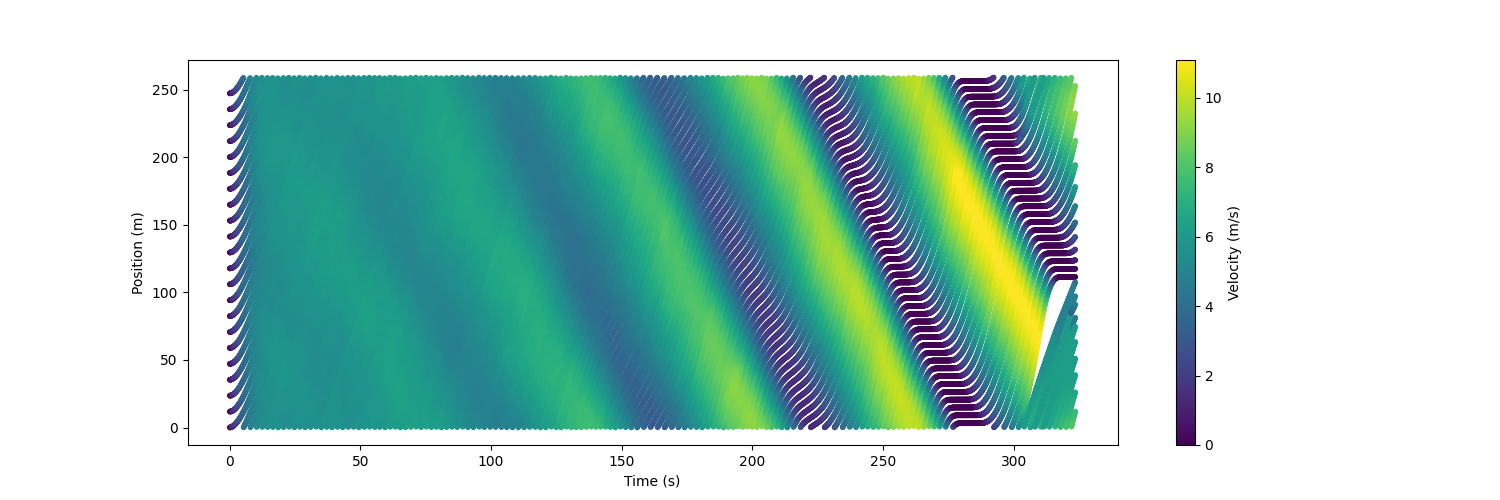
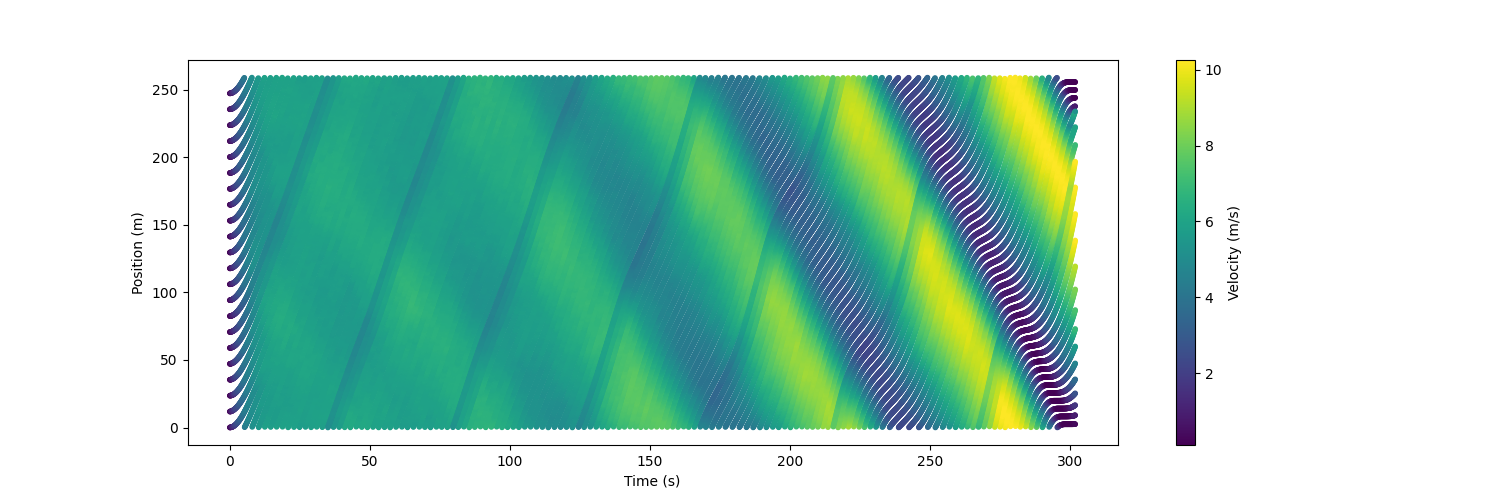
qmix training

diff --git a/main.py b/main.py
@@ -1,7 +1,7 @@
 import scripts.train_dqn, scripts.evaluate_idm, scripts.train_ppo, scripts.multiagent_train_ppo
 import argparse
 
-mixer = "vdn"
+mixer = "qmix"
 
 def main():
     parser = argparse.ArgumentParser()
@@ -31,7 +31,7 @@ def main():
 
     elif args.type == "multiagent_qmix_eval":
         scripts.multiagent_train_ppo.evaluate_qmix(
-            "/home/vamsi/Documents/GitHub/RingRoad-RL/Models/VDN/QMIX/QMIX_grouped_ringroad_12f1b_00000_0_2022-05-04_10-15-51/checkpoint_000084/checkpoint-84", mixer)
+            "/home/vamsi/Documents/GitHub/RingRoad-RL/Models/VDN/QMIX/QMIX_grouped_ringroad_bb77a_00000_0_2022-05-04_13-12-21/checkpoint_000165/checkpoint-165", mixer)
     elif args.type == "eval_idm":
         scripts.evaluate_idm.evaluate()
 
